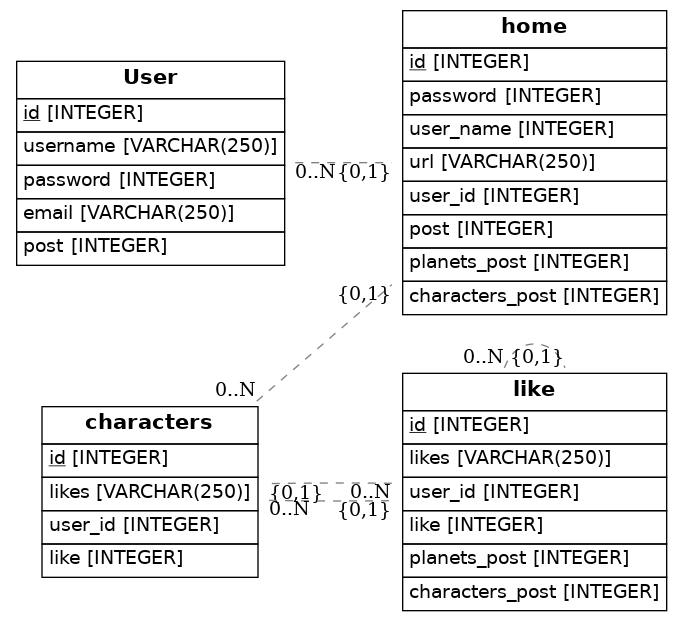
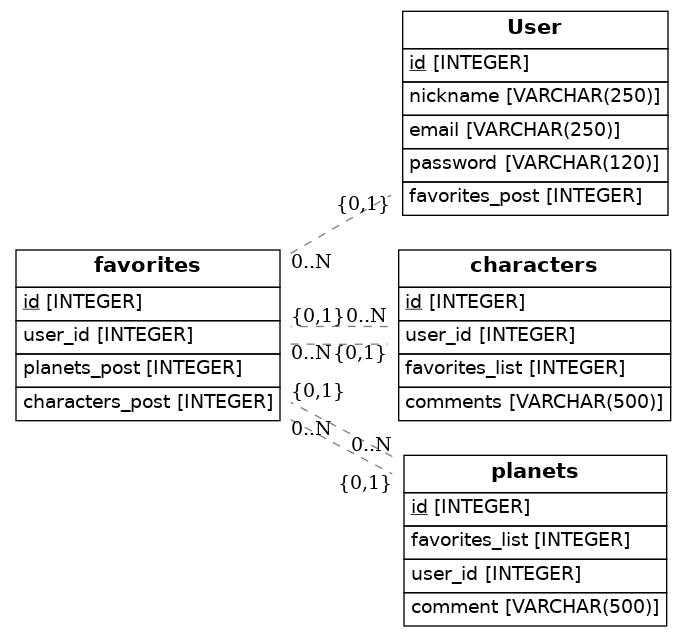
creo que está terminado

Changed region(s): [[0.0, 0.0, 0.9839, 1.0]]

diff --git a/src/models.py b/src/models.py
@@ -42,39 +42,32 @@ Base = declarative_base()
 class User(Base):
      __tablename__ = 'User'
      id = Column(Integer, primary_key=True)
-     username = Column(String(250))
-     nickname =  Column(Integer, ForeignKey('User.user_name'))
+     nickname = Column(String(250))
      email = Column(String(250), nullable=False)
-     password = Column(Integer, ForeignKey('Login.password'))
-     Favorites = Column(Integer, ForeignKey('favorites.id'))
+     password = Column(String(120))
+     favorites_post = Column(Integer, ForeignKey('favorites.id'))
 
 class Favorites (Base):
      __tablename__ = 'favorites'
      id = Column(Integer, primary_key=True)
-     user_id = Column(Integer, ForeignKey('post.id'))
-     favorites = Column(String(250))
-    #  like = Column(Integer, ForeignKey('like.id'))
-     planets = Column(Integer, ForeignKey ('planets.post'))
-     characters = Column(Integer, ForeignKey('characters.post'))
+     user_id = Column(Integer, ForeignKey('user.id'))
+     planets_post= Column(Integer, ForeignKey ('planets.id'))
+     characters_post = Column(Integer, ForeignKey('characters.id'))
      
      
 class Characters (Base):
      __tablename__ = 'characters'
-     # Here we define columns for the table address.
-     # Notice that each column is also a normal Python instance attribute.
      id = Column(Integer, primary_key=True)
-     User_id = Column(Integer, ForeignKey('user.id')) 
-     Favorites = Column(String(250))
-     Comment = Column(String(250)) 
+     user_id = Column(Integer, ForeignKey('user.id')) 
+     favorites_list = Column(Integer, ForeignKey('favorites.id'))
+     comments = Column(String(500)) 
 
 class Planets (Base):
      __tablename__ = 'planets'
-     # Here we define columns for the table address.
-     # Notice that each column is also a normal Python instance attribute.
      id = Column(Integer, primary_key=True)
-     Favorites = Column(String(250))
-     User_id = Column(Integer, ForeignKey('user.id')) 
-     Comment = Column(String(250))      
+     favorites_list = Column(Integer, ForeignKey('favorites.id'))
+     user_id = Column(Integer, ForeignKey('user.id')) 
+     comment = Column(String(500))      
 
 
 def to_dict(self):
